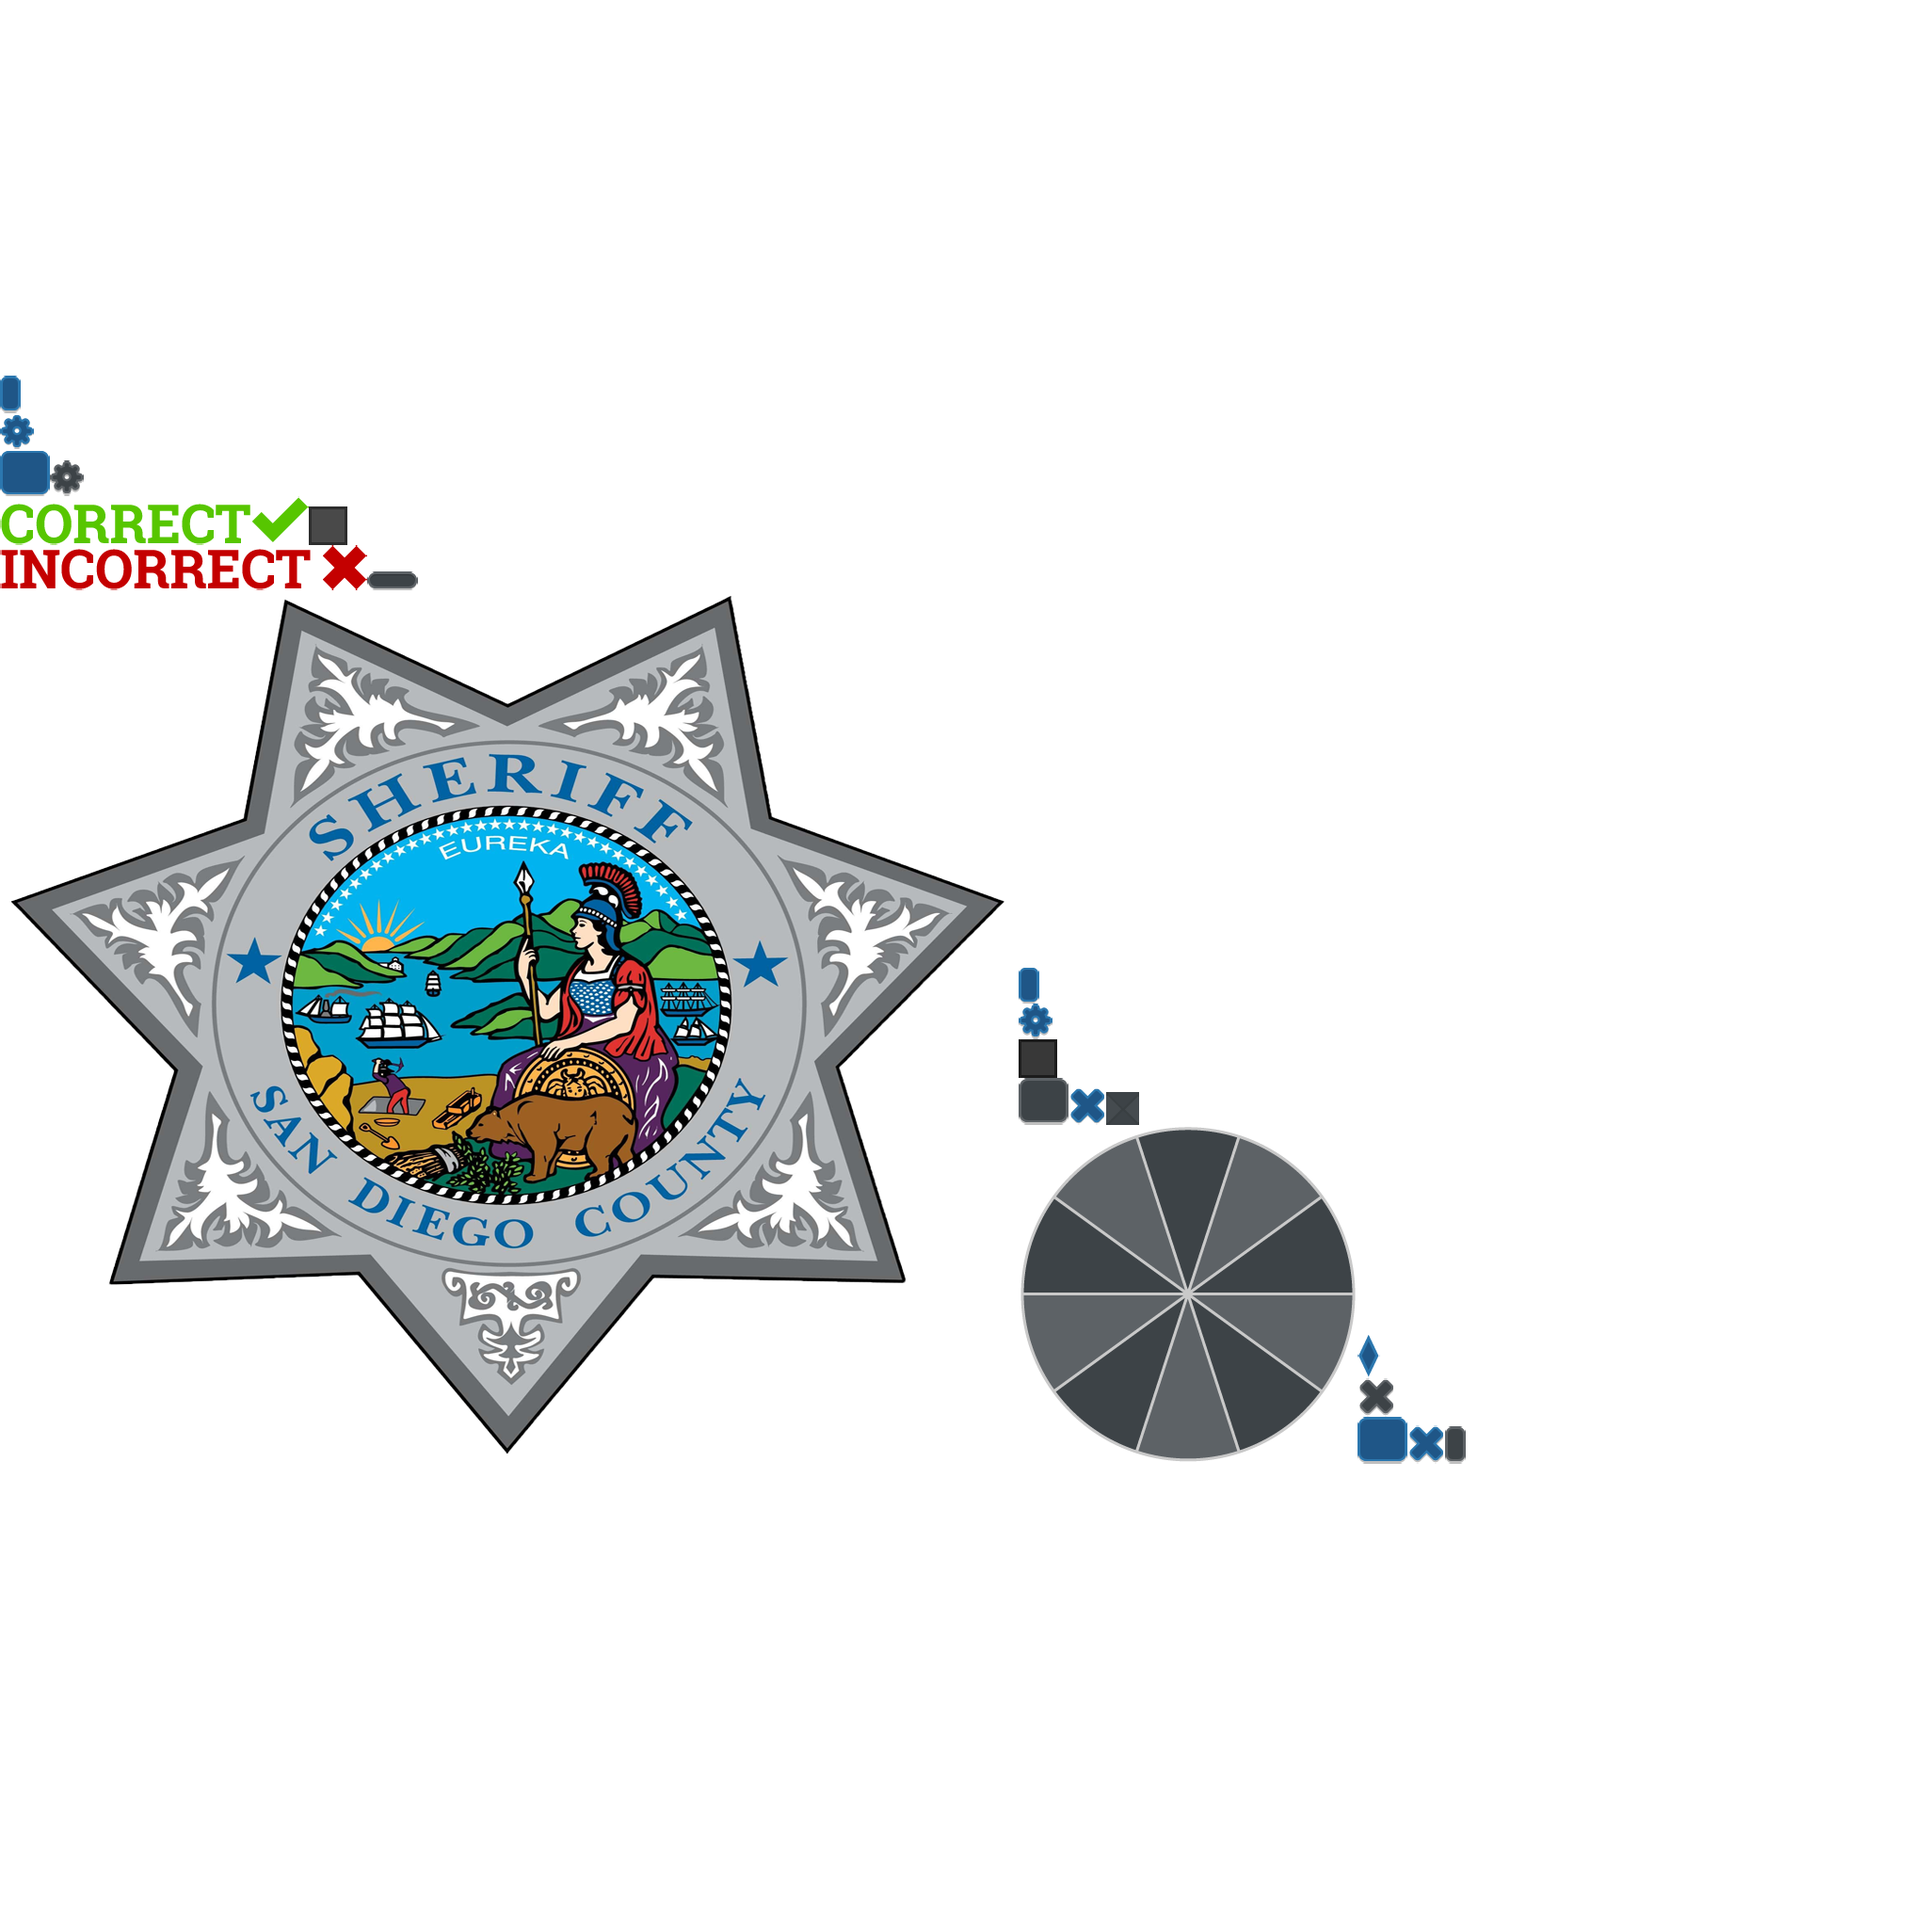
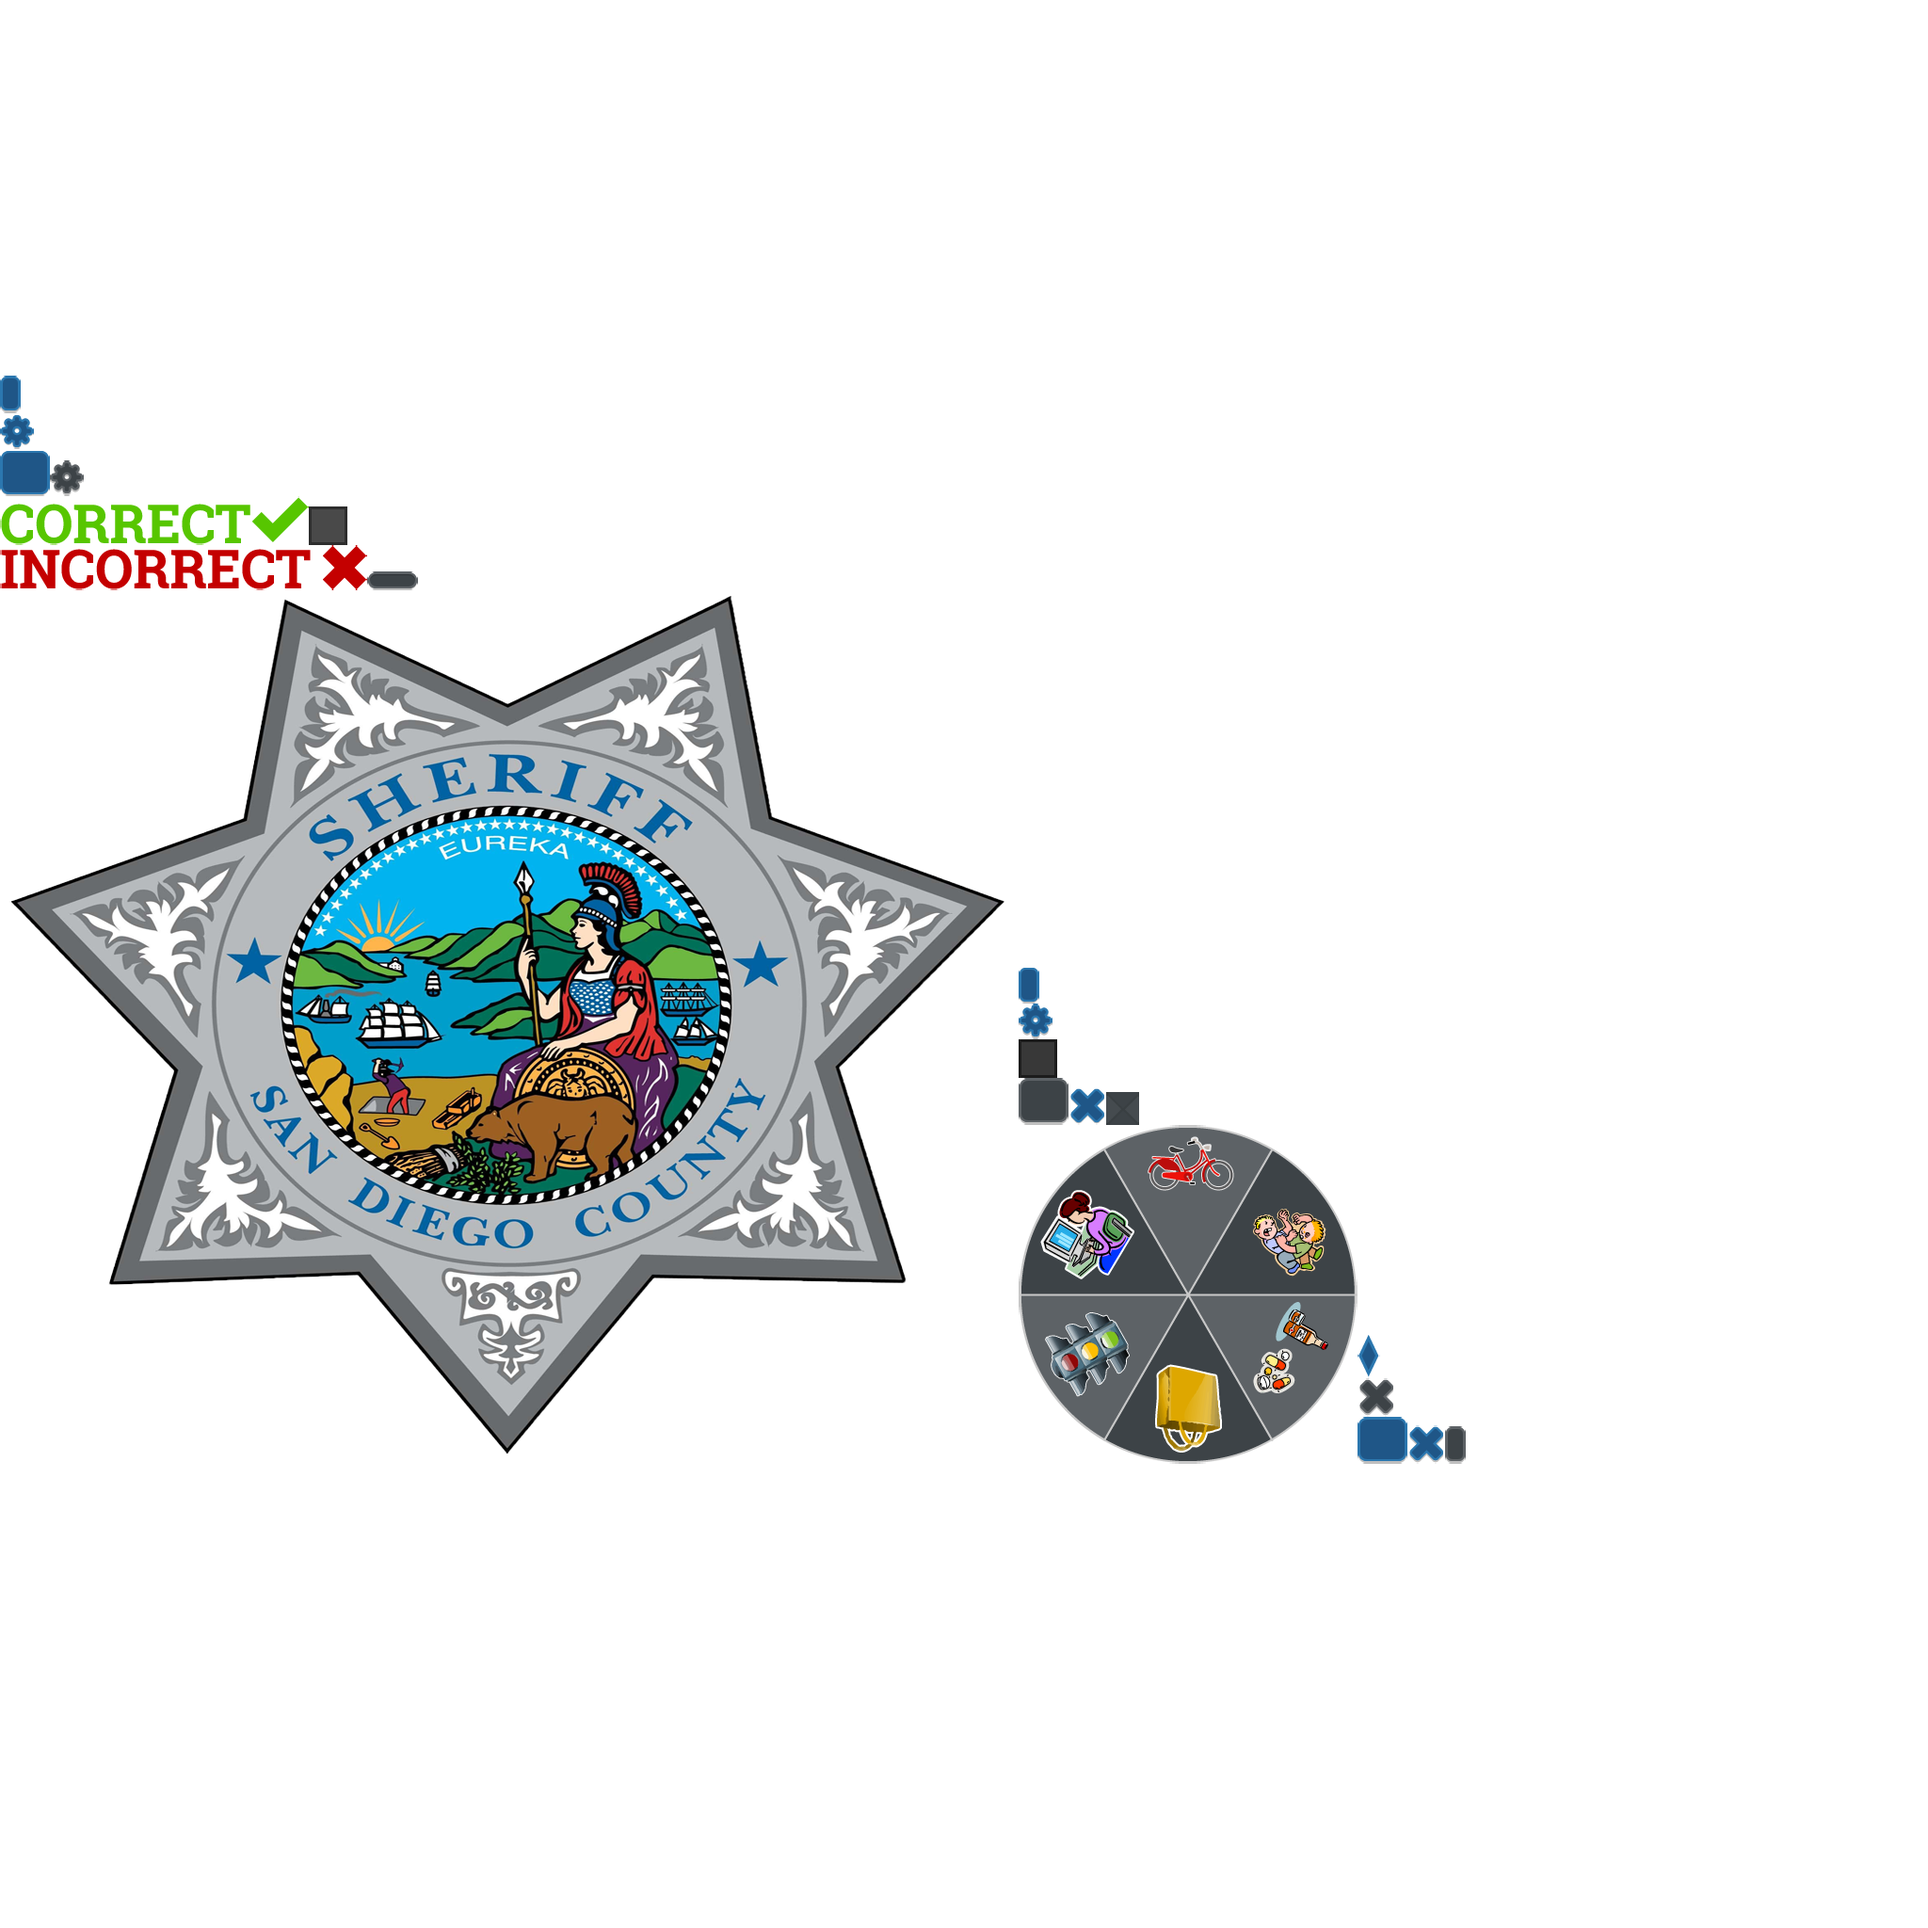
Added images to spinner and fixed rotation.

Changed region(s): [[0.5312, 0.5625, 0.7188, 0.7812]]

diff --git a/core/src/com/ray3k/template/screens/RandomizerScreen.java b/core/src/com/ray3k/template/screens/RandomizerScreen.java
@@ -95,7 +95,7 @@ public class RandomizerScreen extends JamScreen {
         label.setColor(1, 1, 1, 0);
         table.add(label);
         
-        spinnerImage.addAction(Actions.sequence(Actions.delay(.5f), Actions.run(() -> wheelSound.play(core.sfx)), Actions.rotateBy(500, 3f, Interpolation.swingOut), Actions.run(() -> {
+        spinnerImage.addAction(Actions.sequence(Actions.delay(.5f), Actions.run(() -> wheelSound.play(core.sfx)), Actions.rotateBy(360f + 60 * (6 - core.selectedTrivia.index), 3f, Interpolation.swingOut), Actions.run(() -> {
             label.addAction(Actions.fadeIn(1f));
         }), Actions.delay(1.5f), Actions.run(() -> {
             Gdx.input.setInputProcessor(null);

diff --git a/core/src/com/ray3k/template/Trivia.java b/core/src/com/ray3k/template/Trivia.java
@@ -5,11 +5,13 @@ import com.badlogic.gdx.utils.JsonValue;
 
 public class Trivia {
     public String title;
+    public int index;
     public String category;
     public Array<Question> questions;
     
     public Trivia(JsonValue root) {
         title = root.getString("title");
+        index = root.getInt("index");
         category = root.getString("category");
         
         questions = new Array<>();
